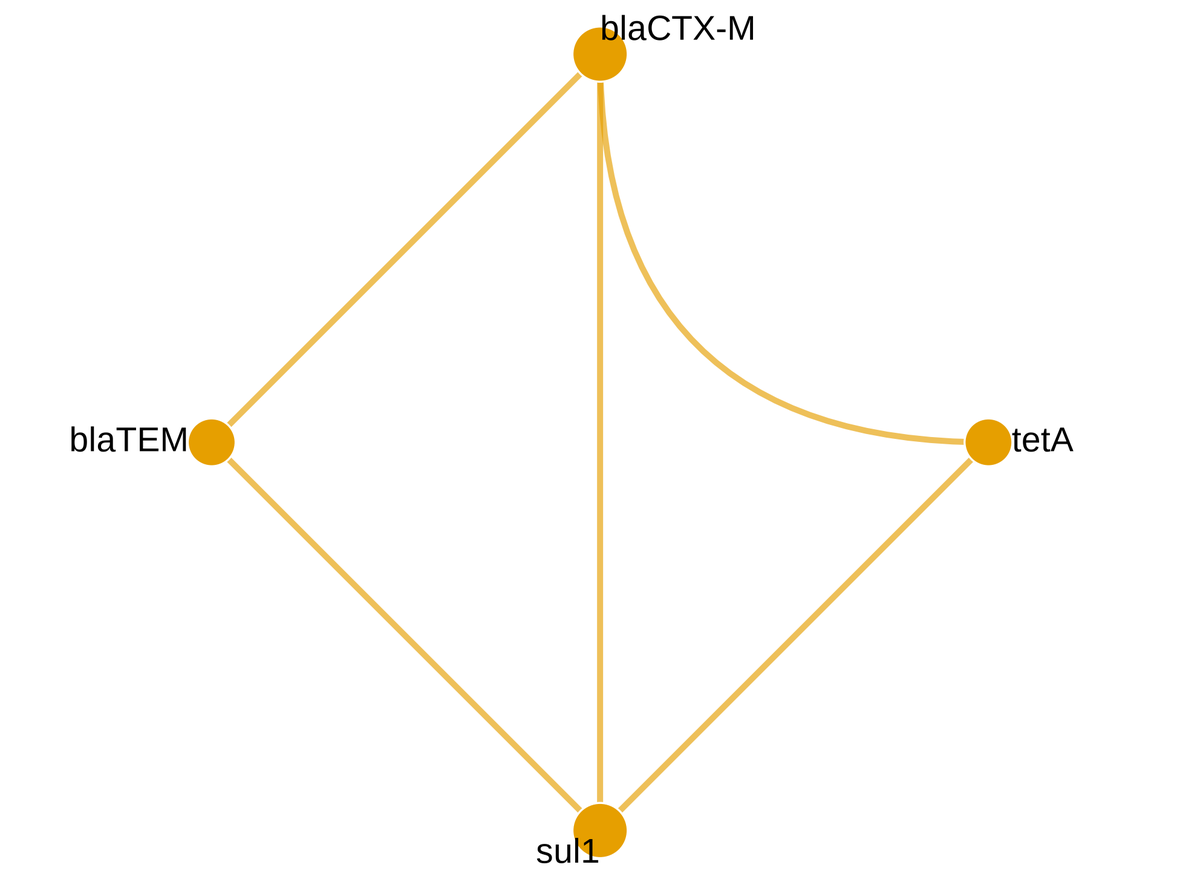
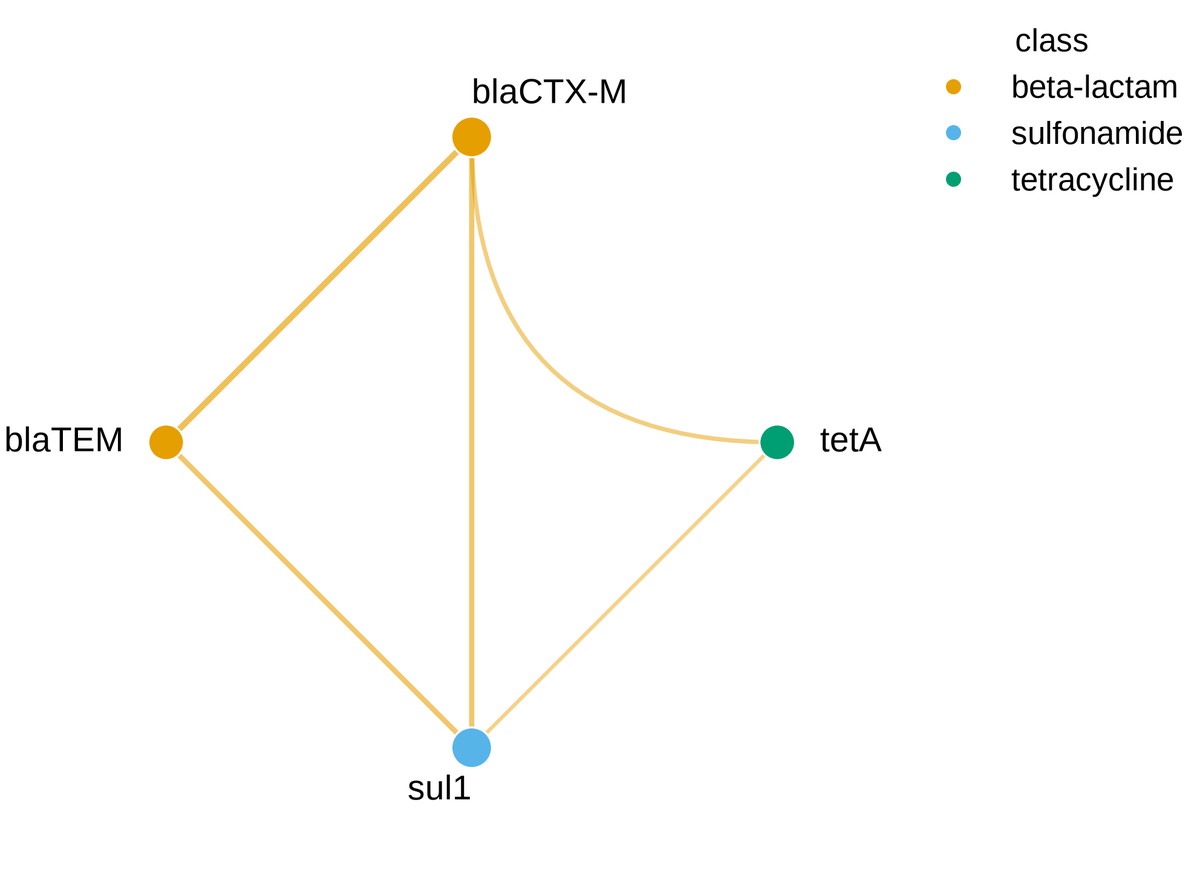
feat(analysis): shared category palette across network and tree figures
- AMR co-occurrence writes palette.json (gene class -> hex)
- render --color-map reuses it for network node colours and tree tip strips,
  so one class keeps one colour across figures
- declaration colour_map in ChartSpec/RenderRequest (contract v2.5)
- analysis edges now carry source_class/target_class; network draws a class legend
- docs/examples updated; 297 tests

diff --git a/src/gaxis/analysis/amr.py b/src/gaxis/analysis/amr.py
@@ -14,6 +14,7 @@ from __future__ import annotations
 import csv
 import hashlib
 import itertools
+import json
 from collections.abc import Sequence
 from dataclasses import dataclass
 from pathlib import Path
@@ -22,6 +23,7 @@ from typing import Any
 from .. import __version__
 from ..errors import GaxisError
 from ..models.analysis import AmrCooccurrenceParams, AnalysisRun
+from ..style.palettes import get_palette
 
 RECIPE_AMR = {
     "id": "amr-cooccurrence",
@@ -130,6 +132,8 @@ def run_amr_cooccurrence(
                 "weight": round(weight, 6),
                 "support": both,
                 "jaccard": round(jaccard, 6),
+                "source_class": gene_class.get(left, ""),
+                "target_class": gene_class.get(right, ""),
             }
         )
     if not edges:
@@ -162,10 +166,25 @@ def run_amr_cooccurrence(
     edges_path = target / "edges.csv"
     with edges_path.open("w", newline="", encoding="utf-8") as handle:
         writer = csv.DictWriter(
-            handle, fieldnames=["source", "target", "weight", "support", "jaccard"]
+            handle,
+            fieldnames=[
+                "source",
+                "target",
+                "weight",
+                "support",
+                "jaccard",
+                "source_class",
+                "target_class",
+            ],
         )
         writer.writeheader()
         writer.writerows(edges)
+
+    palette = get_palette("okabe_ito").colors
+    classes = sorted({value for value in gene_class.values() if value})
+    palette_path = target / "palette.json"
+    palette_map = {name: palette[index % len(palette)] for index, name in enumerate(classes)}
+    palette_path.write_text(json.dumps(palette_map, indent=2) + "\n", encoding="utf-8")
 
     run = AnalysisRun(
         run_id=run_id,
@@ -176,7 +195,11 @@ def run_amr_cooccurrence(
         samples=len(samples),
         genes=len(genes),
         edges=len(edges),
-        outputs={"nodes": str(nodes_path), "edges": str(edges_path)},
+        outputs={
+            "nodes": str(nodes_path),
+            "edges": str(edges_path),
+            "palette": str(palette_path),
+        },
         tool=f"gaxis {__version__}",
     )
     (target / "analysis.json").write_text(run.model_dump_json(indent=2), encoding="utf-8")

diff --git a/src/gaxis/adapters/cli.py b/src/gaxis/adapters/cli.py
@@ -117,7 +117,7 @@ def palettes(as_json: bool = typer.Option(False, "--json")) -> None:
 
 @app.command()
 def tools(as_json: bool = typer.Option(True, "--json/--table")) -> None:
-    """Print the frozen MCP tool contract (v2.4) with data classes."""
+    """Print the frozen MCP tool contract (v2.5) with data classes."""
     catalog = service.tool_catalog()
     if as_json:
         _echo_json(catalog)
@@ -698,6 +698,9 @@ def render_cmd(
     annotation: list[str] | None = typer.Option(
         None, "--annotation", help="tree tip annotation column (repeatable)"
     ),
+    color_map: Path | None = typer.Option(
+        None, "--color-map", help="JSON object mapping category -> hex colour"
+    ),
     backend: str = typer.Option("python", "--backend", help="python (matplotlib) or r (ggplot2)"),
     preset: str = typer.Option("default", "--preset", "-p"),
     palette: str | None = typer.Option(None, "--palette"),
@@ -726,6 +729,7 @@ def render_cmd(
         yerr=yerr,
         weight=weight,
         annotations=annotation or [],
+        color_map=(json.loads(color_map.read_text(encoding="utf-8")) if color_map else {}),
         preset=preset,
         palette=palette,
         backend=backend,  # type: ignore[arg-type]
@@ -1052,7 +1056,8 @@ def analysis_run_cmd(
     if run.recipe == "amr-cooccurrence":
         typer.echo(
             "next:    gaxis render --chart network --data "
-            f"{run.outputs['edges']} --x source --y target --weight weight"
+            f"{run.outputs['edges']} --x source --y target --weight weight "
+            f"--color-map {run.outputs['palette']}"
         )
     elif run.recipe == "newick-to-table":
         typer.echo(

diff --git a/tests/test_network.py b/tests/test_network.py
@@ -94,3 +94,40 @@ def test_amr_cooccurrence_filters_rare_genes(tmp_path: Path) -> None:
     with pytest.raises(GaxisError) as excinfo:
         run_amr_cooccurrence(table, out_dir=tmp_path / "out", params=params)
     assert excinfo.value.code in {"no_genes_pass_filter", "no_edges_pass_filter"}
+
+
+def test_amr_recipe_writes_a_shared_palette(tmp_path: Path) -> None:
+    import json
+
+    table = _amr_table(tmp_path)
+    run = run_amr_cooccurrence(table, out_dir=tmp_path / "analysis")
+    palette = Path(run.outputs["palette"])
+    assert palette.is_file()
+    mapping = json.loads(palette.read_text(encoding="utf-8"))
+    assert set(mapping) == {"beta-lactam", "sulfonamide", "tetracycline"}
+    assert all(value.startswith("#") for value in mapping.values())
+
+
+def test_color_map_is_applied(tmp_path: Path) -> None:
+    mapped = tmp_path / "mapped.csv"
+    mapped.write_text(
+        "source,target,weight,source_class,target_class\n"
+        "blaCTX-M,blaTEM,0.6,beta-lactam,beta-lactam\n"
+        "sul1,tetA,0.3,sulfonamide,tetracycline\n",
+        encoding="utf-8",
+    )
+    result = render(
+        RenderRequest(
+            data_path=str(mapped),
+            out_dir=str(tmp_path / "mapped"),
+            chart_type="network",
+            x="source",
+            y="target",
+            weight="weight",
+            formats=["svg"],
+            preset="asm",
+            color_map={"beta-lactam": "#123456"},
+        )
+    )
+    svg = Path(result.outputs[0].path).read_text(encoding="utf-8")
+    assert "#123456" in svg.lower()

diff --git a/src/gaxis/mcp/server.py b/src/gaxis/mcp/server.py
@@ -1,4 +1,4 @@
-"""MCP server for gaxis: ten tools over contract v2.4 (ADR-02, ADR-05, ADR-14).
+"""MCP server for gaxis: ten tools over contract v2.5 (ADR-02, ADR-05, ADR-14).
 
 Run it as a production service:
 
@@ -97,6 +97,7 @@ def build_server() -> MCPServer:
         yerr: str | None = None,
         weight: str | None = None,
         annotations: list[str] | None = None,
+        color_map: dict[str, str] | None = None,
         title: str | None = None,
         xlabel: str | None = None,
         ylabel: str | None = None,
@@ -120,6 +121,7 @@ def build_server() -> MCPServer:
             yerr=yerr,
             weight=weight,
             annotations=annotations,
+            color_map=color_map,
             title=title,
             xlabel=xlabel,
             ylabel=ylabel,
@@ -351,7 +353,7 @@ def build_server() -> MCPServer:
 
 def main(argv: list[str] | None = None) -> None:
     parser = argparse.ArgumentParser(
-        prog="gaxis-mcp", description="gaxis MCP server (contract v2.4)"
+        prog="gaxis-mcp", description="gaxis MCP server (contract v2.5)"
     )
     parser.add_argument("--transport", choices=["http", "stdio"], default="http")
     parser.add_argument("--host", default="127.0.0.1")

diff --git a/src/gaxis/render/emit.py b/src/gaxis/render/emit.py
@@ -49,6 +49,13 @@ def _r(value: Any) -> str:
     return json.dumps(str(value), ensure_ascii=False)
 
 
+def _r_map(mapping: dict[str, str]) -> str:
+    if not mapping:
+        return "list()"
+    entries = ", ".join(f"{_r(key)} = {_r(value)}" for key, value in sorted(mapping.items()))
+    return f"list({entries})"
+
+
 def _docstring(spec: ChartSpec, preset: Preset, schema: DataSchema) -> str:
     y = spec.y or "counts"
     x = spec.x or "level"
@@ -115,6 +122,7 @@ def emit_code(
                         "yerr": spec.yerr,
                         "weight": spec.weight,
                         "annotations": list(spec.annotations),
+                        "color_map": dict(spec.color_map),
                         "title": spec.title,
                         "xlabel": spec.xlabel,
                         "ylabel": spec.ylabel,
@@ -144,6 +152,7 @@ def emit_code(
             "@YERR@": _r(spec.yerr),
             "@WEIGHT@": _r(spec.weight),
             "@ANNOTATIONS@": ", ".join(_r(name) for name in spec.annotations),
+            "@COLOR_MAP@": _r_map(spec.color_map),
             "@TITLE@": _r(spec.title),
             "@XLABEL@": _r(spec.xlabel),
             "@YLABEL@": _r(spec.ylabel),

diff --git a/src/gaxis/models/tools.py b/src/gaxis/models/tools.py
@@ -1,4 +1,4 @@
-"""MCP tool contract v2.4 — frozen surface between the kernel and every host.
+"""MCP tool contract v2.5 — frozen surface between the kernel and every host.
 
 Seven tools, one core. Hosts (bacmap, DSH, Pi, Hermes, CLI) only translate; the
 kernel never learns about a host SDK (ADR-05). Every tool declares its data
@@ -53,6 +53,7 @@ class RenderRequest(BaseModel):
     yerr: str | None = None
     weight: str | None = None
     annotations: list[str] = Field(default_factory=list)
+    color_map: dict[str, str] = Field(default_factory=dict)
     title: str | None = None
     xlabel: str | None = None
     ylabel: str | None = None
@@ -78,6 +79,7 @@ class RenderRequest(BaseModel):
             yerr=self.yerr,
             weight=self.weight,
             annotations=list(self.annotations),
+            color_map=dict(self.color_map),
             title=self.title,
             xlabel=self.xlabel,
             ylabel=self.ylabel,

diff --git a/src/gaxis/adapt.py b/src/gaxis/adapt.py
@@ -37,6 +37,7 @@ def _py_spec_payload(spec: ChartSpec) -> dict[str, object]:
         "yerr": spec.yerr,
         "weight": spec.weight,
         "annotations": list(spec.annotations),
+        "color_map": dict(spec.color_map),
         "title": spec.title,
         "xlabel": spec.xlabel,
         "ylabel": spec.ylabel,
@@ -72,6 +73,7 @@ def _r_spec_payload(spec: ChartSpec) -> dict[str, object]:
         "yerr": spec.yerr,
         "weight": spec.weight,
         "annotations": list(spec.annotations),
+        "color_map": dict(spec.color_map),
         "title": spec.title,
         "xlabel": spec.xlabel,
         "ylabel": spec.ylabel,

diff --git a/src/gaxis/spec/infer.py b/src/gaxis/spec/infer.py
@@ -61,6 +61,7 @@ def infer_spec(
     yerr: str | None = None,
     weight: str | None = None,
     annotations: list[str] | None = None,
+    color_map: dict[str, str] | None = None,
     preset: str = "default",
     palette: str | None = None,
     backend: str = "python",
@@ -95,6 +96,7 @@ def infer_spec(
         yerr=yerr,
         weight=weight,
         annotations=list(annotations or []),
+        color_map=dict(color_map or {}),
         title=title,
         xlabel=(
             None

diff --git a/src/gaxis/service.py b/src/gaxis/service.py
@@ -806,6 +806,7 @@ def render(request: RenderRequest, *, execute: bool = True) -> RenderResult:
         yerr=request.yerr,
         weight=request.weight,
         annotations=list(request.annotations),
+        color_map=dict(request.color_map),
         title=request.title,
         xlabel=request.xlabel,
         ylabel=request.ylabel,

diff --git a/src/gaxis/models/spec.py b/src/gaxis/models/spec.py
@@ -38,6 +38,7 @@ class ChartSpec(BaseModel):
     yerr: str | None = None
     weight: str | None = None
     annotations: list[str] = Field(default_factory=list)
+    color_map: dict[str, str] = Field(default_factory=dict)
     title: str | None = None
     xlabel: str | None = None
     ylabel: str | None = None

diff --git a/tests/test_contract.py b/tests/test_contract.py
@@ -4,7 +4,7 @@ from pathlib import Path
 from gaxis.models.tools import TOOL_SPECS
 
 SNAPSHOT = Path(__file__).parent / "contract_snapshot.json"
-CONTRACT_VERSION = "v2.4"
+CONTRACT_VERSION = "v2.5"
 EXPECTED_TOOLS = {
     "describe_data_schema",
     "render_chart_from_data",

diff --git a/scripts/freeze_contract.py b/scripts/freeze_contract.py
@@ -10,7 +10,7 @@ from pathlib import Path
 
 from gaxis.models.tools import TOOL_SPECS
 
-CONTRACT_VERSION = "v2.4"
+CONTRACT_VERSION = "v2.5"
 
 snapshot = {
     "contract_version": CONTRACT_VERSION,
